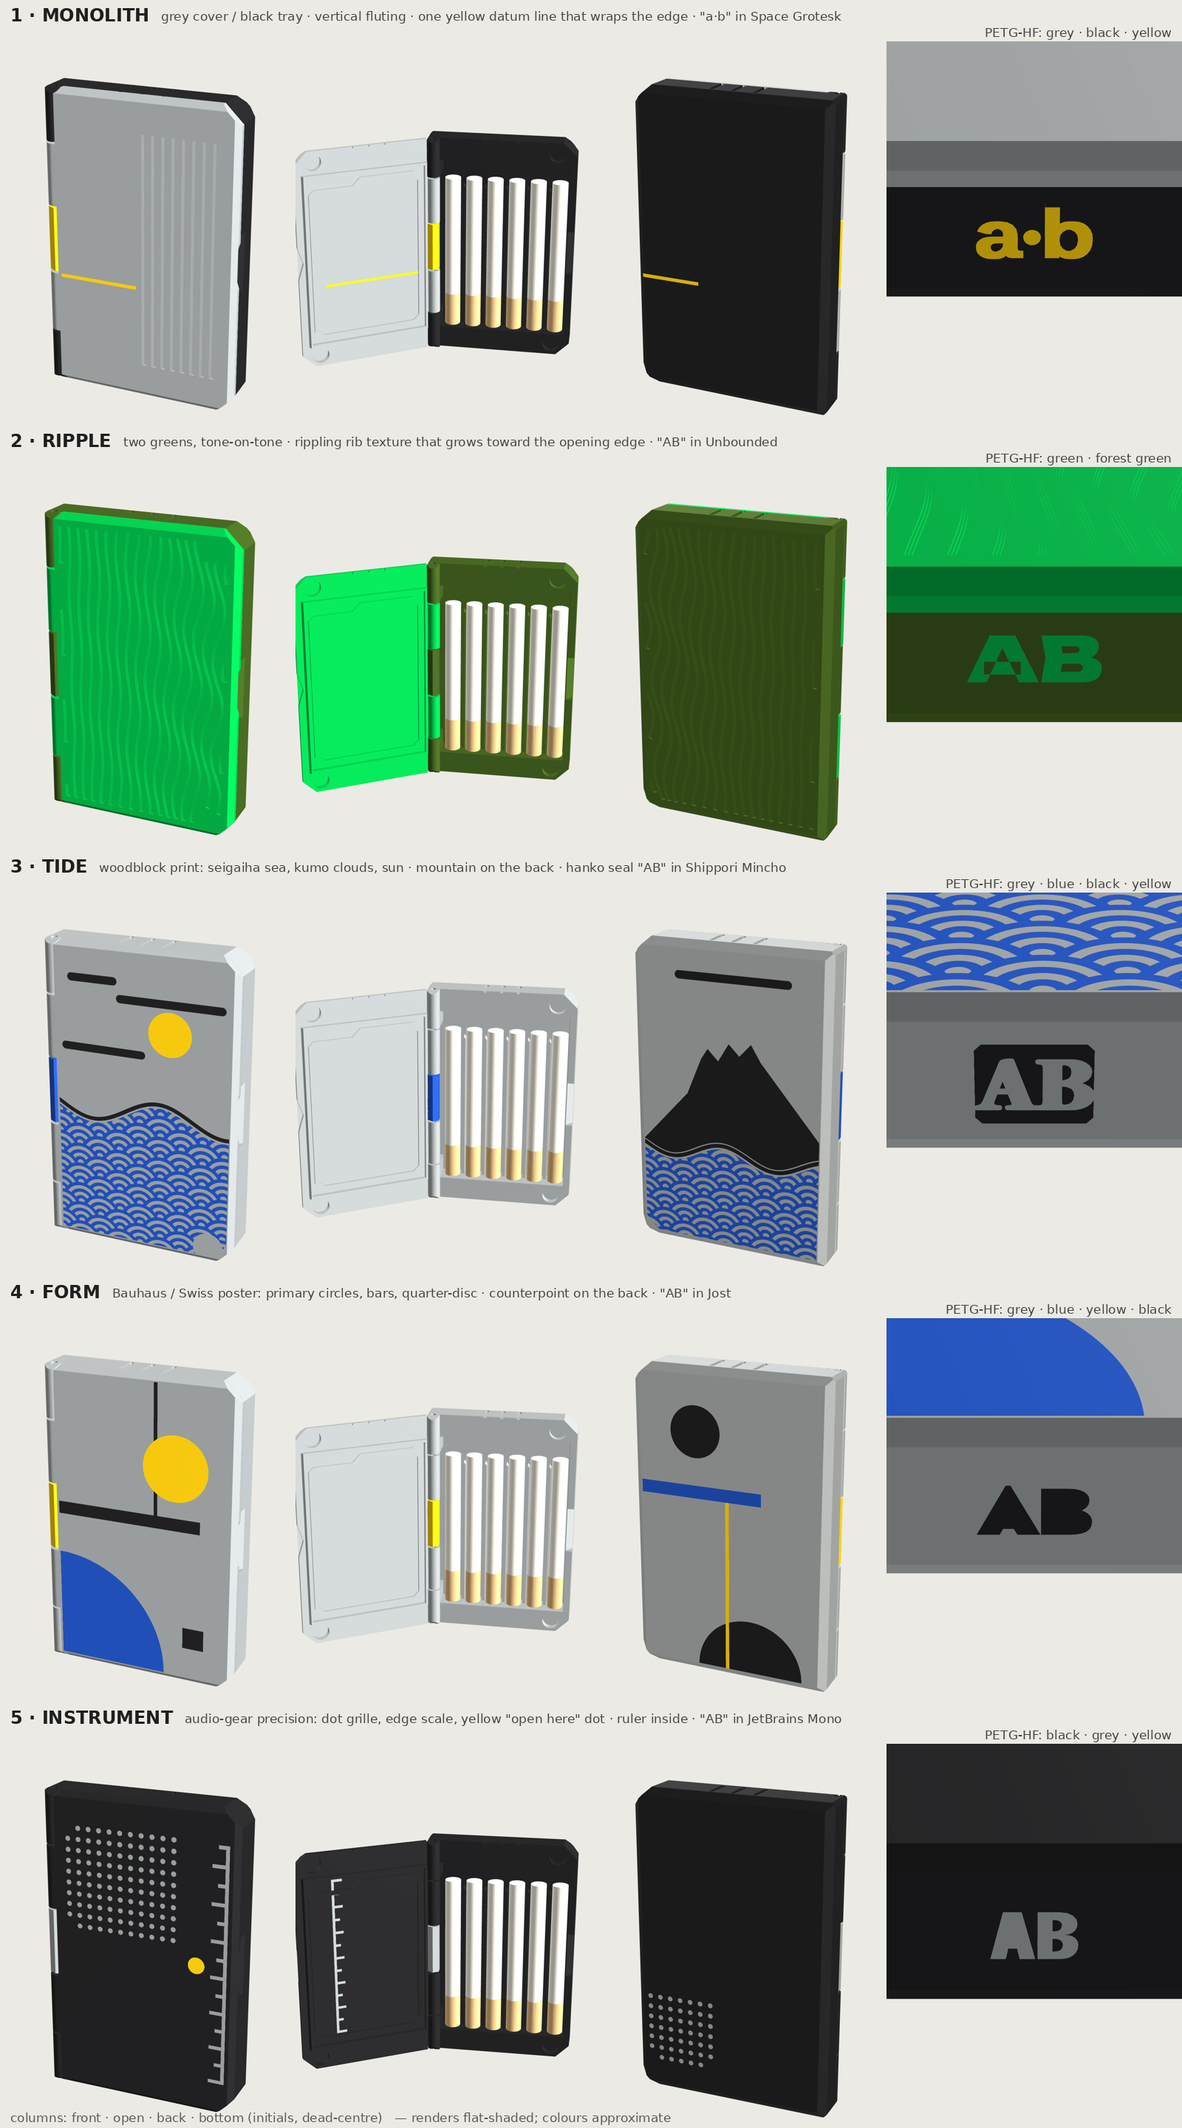
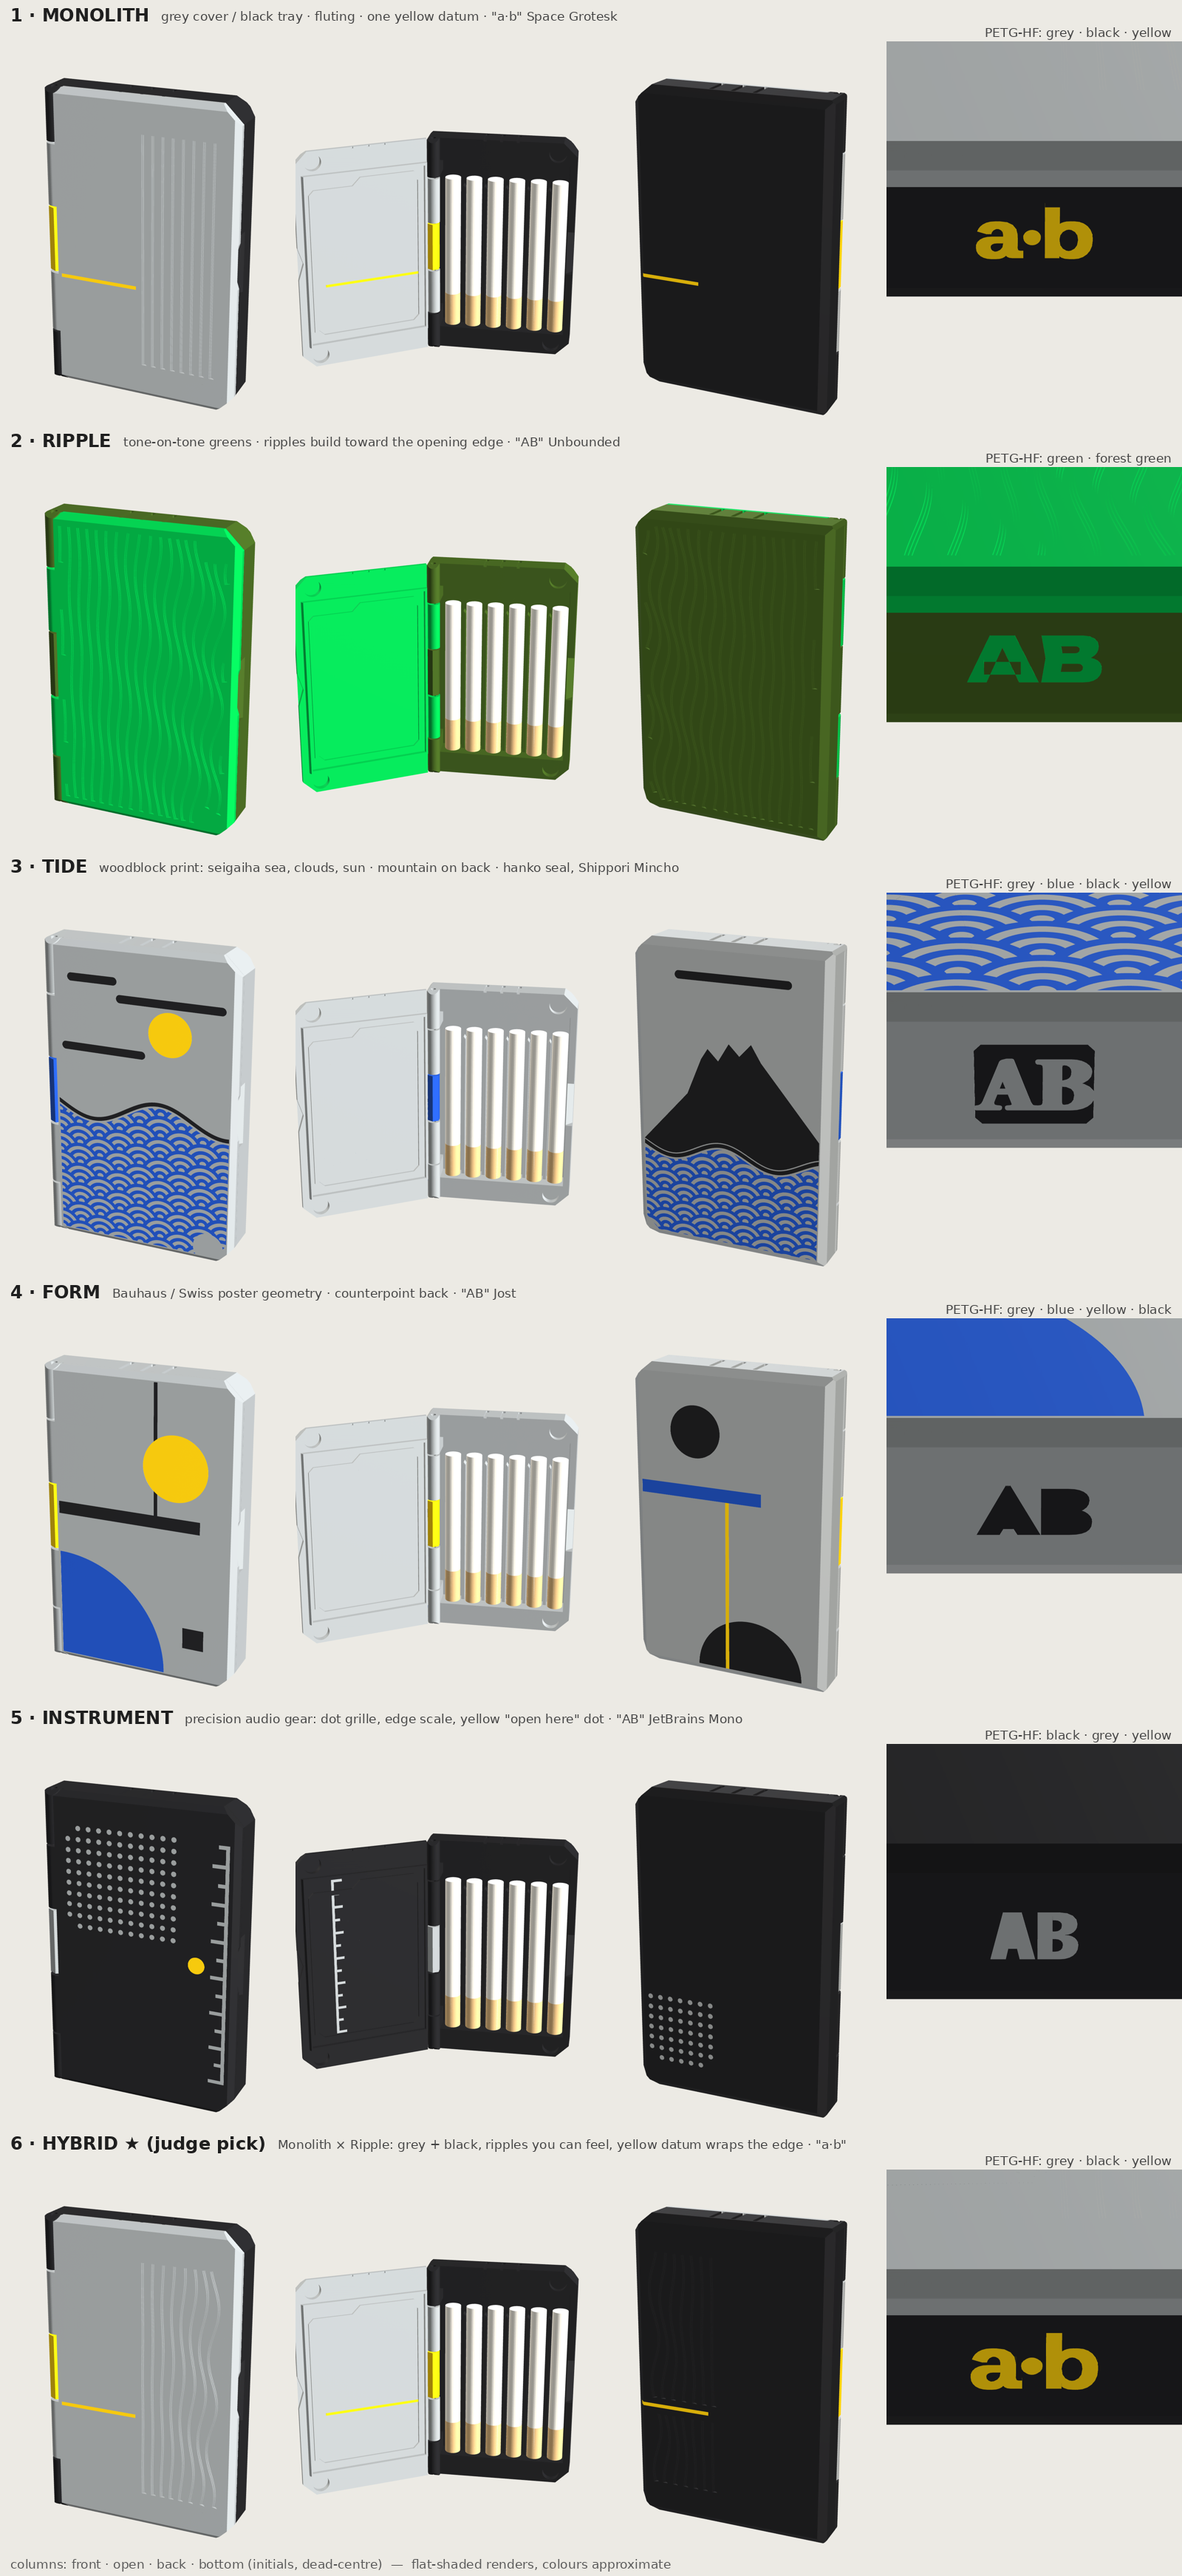
Add v6 hybrid concept (Monolith x Ripple) and judge notes
Claude-Session: https://claude.ai/code/session_01YJ772GZK1vhYbGwuuwunGj

diff --git a/edc-cigarette-case/v6-concepts/src/v6.py b/edc-cigarette-case/v6-concepts/src/v6.py
@@ -230,7 +230,36 @@ def concept_instrument():
     return dict(key='instrument', name='INSTRUMENT', d=d, parts=parts, mono=mono, font='JetBrains Mono ExtraBold',
                 colours=['black', 'grey', 'yellow'])
 
-CONCEPTS = {'monolith': concept_monolith, 'ripple': concept_ripple, 'tide': concept_tide, 'form': concept_form, 'instrument': concept_instrument}
+
+def concept_hybrid():
+    """Judge-proposed Monolith x Ripple: grey cover, ripples that build toward the opening edge, black tray,
+    one yellow datum that wraps the edge, yellow sleeve, lowercase a.b. Yellow inlays 1.0 mm deep (no show-through)."""
+    d = base(); tray, cover, ys = d['tray'], d['cover'], d['ys']
+    def rip(x0, x1, z0, z1, toward_right):
+        out = []
+        for xc in np.arange(x0, x1, 2.8):
+            t = (xc - x0) / (x1 - x0); t = t if toward_right else 1 - t
+            A = 0.05 + 1.5 * t ** 1.6
+            zs = np.linspace(z0, z1, 140)
+            out.append(LineString([(xc + A * np.sin(2 * np.pi * z / 26.0 + 0.22 * xc), z) for z in zs]))
+        return out
+    fr = [l.intersection(FRONT.buffer(-1.6)).difference(KEEP.buffer(1.0)) for l in rip(1.8, 24.0, 9.8, 75.2, True)]
+    cover = grooves(cover, [l for l in fr if not l.is_empty and l.length > 15], 'f')
+    br = [l.intersection(BACK.buffer(-1.6)).difference(sbox(-40, 30.2, 40, 34.8)) for l in rip(-24.0, -1.8, 9.8, 75.2, False)]
+    tray = grooves(tray, [g for l in br for g in getattr(l, 'geoms', [l]) if not g.is_empty and g.length > 15], 'b')
+    cover, y1 = inlay(cover, sbox(-23.0, 32.0, -0.8, 33.0), 'f', 1.0)
+    tray, y2 = inlay(tray, sbox(-29.0, 32.0, -6.0, 33.0), 'b', 1.0)                 # runs out over the edge chamfer
+    cover, y3 = inside_inlay(cover, sbox(-17.5, 32.0, 19.0, 33.0), ys)
+    raw = text_poly('a·b', 4.6, 'SpaceGrotesk-Bold.ttf', thicken=0)
+    dot_c = min(raw.geoms, key=lambda q: q.area).centroid
+    th = text_poly('a·b', 4.6, 'SpaceGrotesk-Bold.ttf')
+    mono = unary_union([q for q in th.geoms if q.area > 1.5] + [Point(dot_c.x, dot_c.y).buffer(0.7, quad_segs=16)])
+    cut = cs(mono).extrude(1.0 + 0.5).translate((0, 0, -0.5)).mirror((0, 1, 0)); y4 = cut ^ tray; tray = tray - cut
+    parts = [(cover, 'grey', 'cover'), (tray, 'black', 'tray'), (d['sleeve'], 'yellow', 'sleeve'),
+             (y1, 'yellow', 'cover'), (y3, 'yellow', 'cover'), (y2, 'yellow', 'tray'), (y4, 'yellow', 'tray')]
+    return dict(key='hybrid', name='HYBRID', d=d, parts=parts, mono=mono, font='Space Grotesk Bold', colours=['grey', 'black', 'yellow'])
+
+CONCEPTS = {'monolith': concept_monolith, 'ripple': concept_ripple, 'tide': concept_tide, 'form': concept_form, 'instrument': concept_instrument, 'hybrid': concept_hybrid}
 
 if __name__ == '__main__':
     import time

diff --git a/edc-cigarette-case/v6-concepts/README.md b/edc-cigarette-case/v6-concepts/README.md
@@ -11,5 +11,15 @@ The structure is the unchanged v5 Book: 55 × 13 × 85 mm, spine hinge, 6 channe
 | 3 | TIDE | XXY2025 (pictorial ukiyo-e gift boxes); original seigaiha and mountain composition | grey, blue, black, yellow | Shippori Mincho B1 (hanko seal) |
 | 4 | FORM | Bauhaus / Swiss modernist poster | grey, blue, yellow, black | Jost Black |
 | 5 | INSTRUMENT | Precision audio and measuring gear | black, grey, yellow | JetBrains Mono ExtraBold |
+| 6 | HYBRID ★ | Monolith × Ripple, proposed by the independent judge | grey, black, yellow | Space Grotesk Bold |
 
 All fonts are SIL OFL licensed (Google Fonts). The 3MF is built only after a direction is approved.
+
+## Independent judge (design-evaluation rubric, qualitative)
+Ranking: Monolith > Ripple > Tide > Form > Instrument. The judge proposed the Hybrid (row 6).
+
+Risks it flagged for the final build:
+- Make yellow inlays 1.0 mm deep so a dark base doesn't show through. Already applied in the Hybrid.
+- Initials at about 4 mm are at the print limit; 5–5.5 mm is safer.
+- Tide's magnet clearance needs designing into the art so it doesn't read as a defect.
+- Instrument's tiny first-layer dots will smear.
